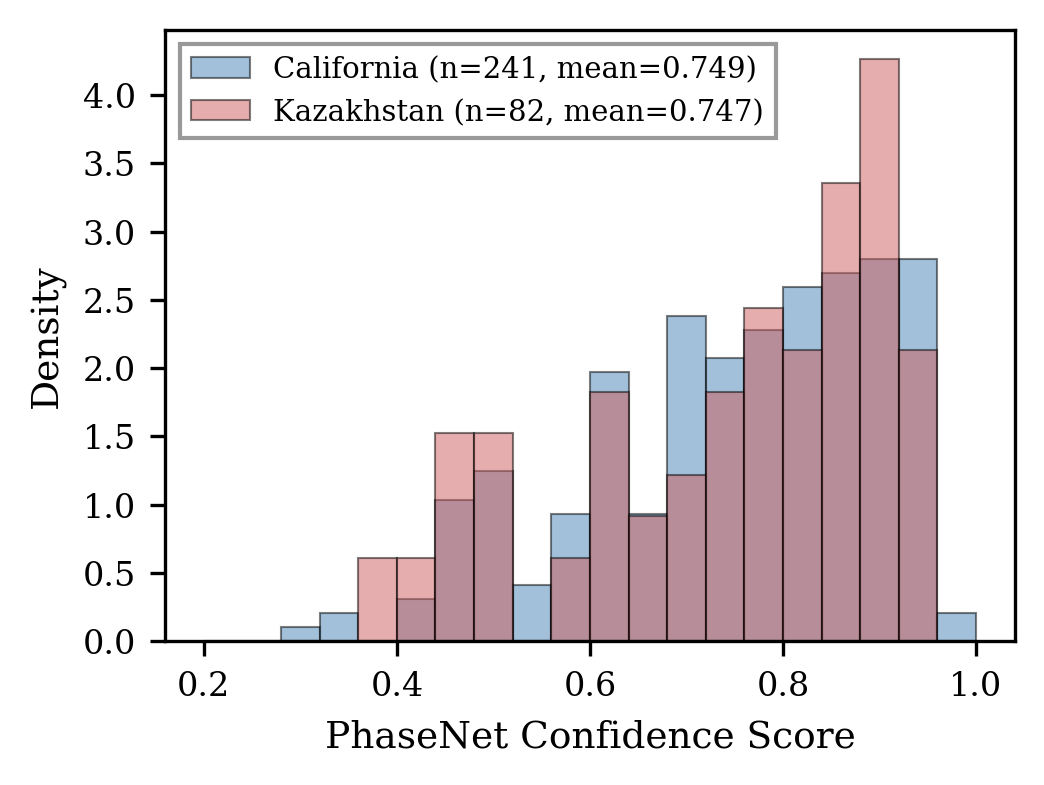
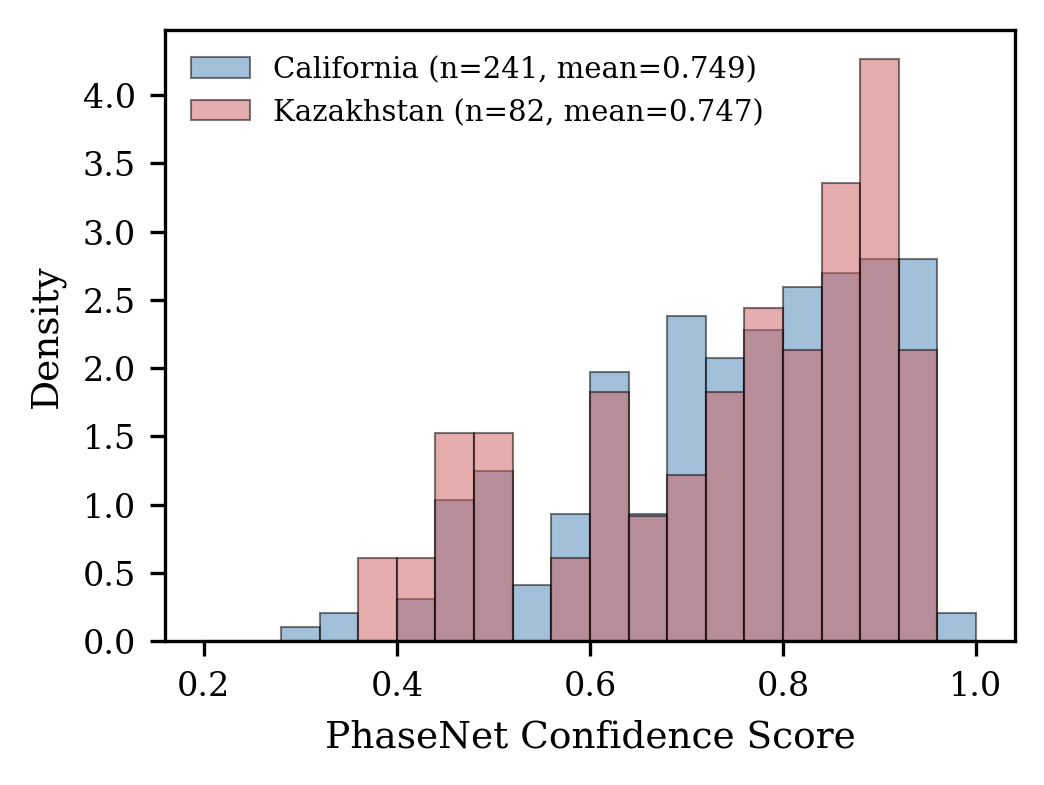
Add Figure 3: confidence histogram overlay
- Replace TODO placeholder with actual fig3_confidence PDF
- Update figure label from fig:confidence_overlap to fig:confidence
- Update paper_figures.ipynb with serif font, frameon=False legend,
  tick label sizing, and PDF+PNG export
- Regenerate fig3_confidence.pdf and fig3_confidence.png

Changed region(s): [[0.1533, 0.0611, 0.7663, 0.1834], [0.1839, 0.0306, 0.7356, 0.0611]]

diff --git a/paper/sections/results.tex b/paper/sections/results.tex
@@ -32,22 +32,18 @@ Critically, the P-wave false pick rate is comparable between regions (31.4\% vs.
 \subsection{Confidence Scores Do Not Detect Distribution Shift}
 \label{sec:confidence}
 
-% TODO: Figure 3 — Confidence distribution overlap
-% Overlaid histograms of California and Kazakhstan P-wave confidence
 \begin{figure}[t]
     \centering
-    % \includegraphics[width=\columnwidth]{figures/fig3_confidence.pdf}
-    \fbox{\parbox{0.9\columnwidth}{\centering\vspace{1.5cm}\textbf{Figure 3: TODO}\\[0.3em]
-    Confidence histograms overlay\vspace{1.5cm}}}
+    \includegraphics[width=\columnwidth]{figures/fig3_confidence}
     \caption{Confidence distributions for matched picks in California (blue) and Kazakhstan (red). Despite the detection rate collapse, the distributions are nearly indistinguishable.}
-    \label{fig:confidence_overlap}
+    \label{fig:confidence}
 \end{figure}
 
 \Cref{sec:shift} showed that PhaseNet's performance degrades sharply under distribution shift. We now ask whether its confidence scores provide any warning of this degradation.
 
 P-wave ECE increases from 0.088 in California to 0.150 in Kazakhstan (\cref{tab:shift}). At the 0.7 confidence level, California picks are correct approximately 70\% of the time, but Kazakhstan picks only approximately 50\%. PhaseNet appears overconfident under distribution shift. To assess whether the issue goes beyond calibration, we turn to discrimination analysis.
 
-P-wave AUROC is 0.699 in California versus 0.701 in Kazakhstan, virtually identical. The model distinguishes correct from incorrect picks with similar confidence in both regions, despite the performance drop documented in \cref{sec:shift}. Unlike calibration, which could in principle be corrected by post-hoc rescaling, discrimination cannot be improved without changing the model's internal representations. A confidence-based deferral system operating in Kazakhstan would have no signal that anything had changed (\cref{fig:confidence_overlap}).
+P-wave AUROC is 0.699 in California versus 0.701 in Kazakhstan, virtually identical. The model distinguishes correct from incorrect picks with similar confidence in both regions, despite the performance drop documented in \cref{sec:shift}. Unlike calibration, which could in principle be corrected by post-hoc rescaling, discrimination cannot be improved without changing the model's internal representations. A confidence-based deferral system operating in Kazakhstan would have no signal that anything had changed (\cref{fig:confidence}).
 
 \subsection{Seismic Regime Assignment}
 \label{sec:regime_behaviour}
